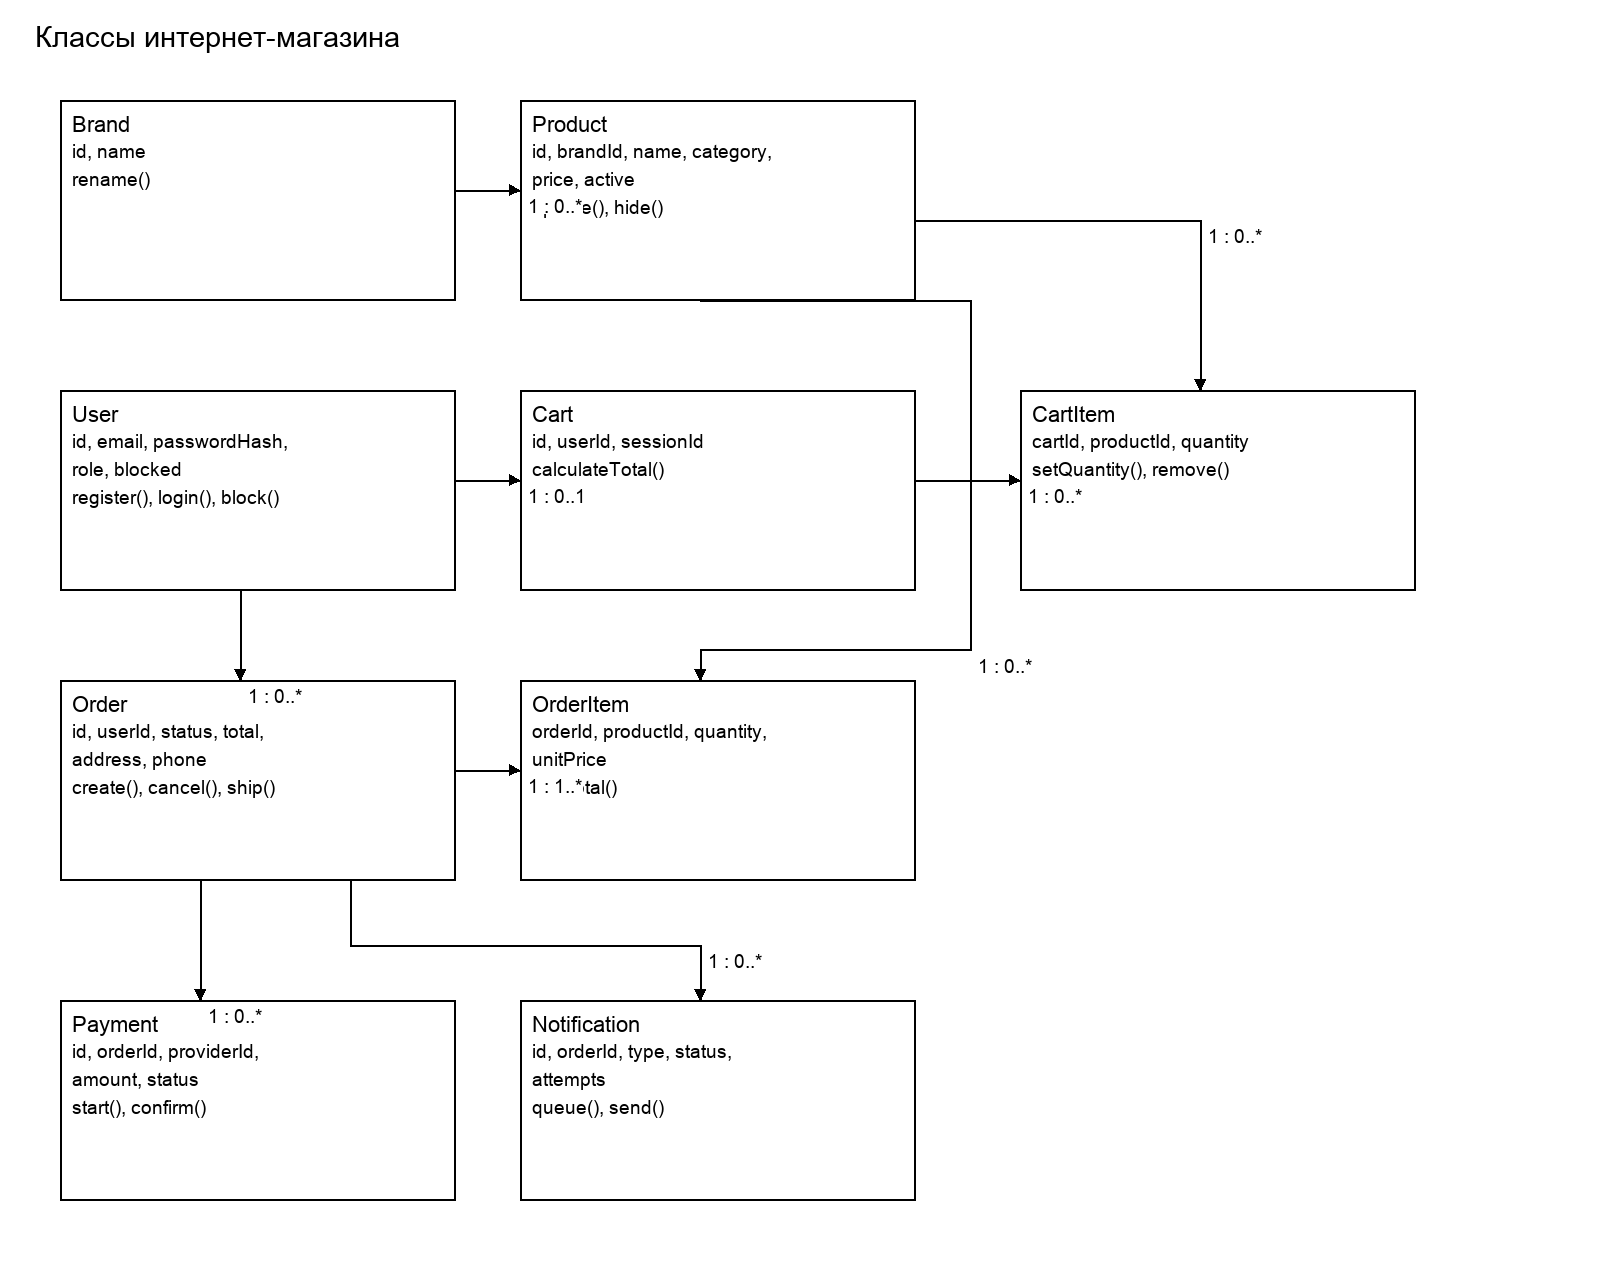
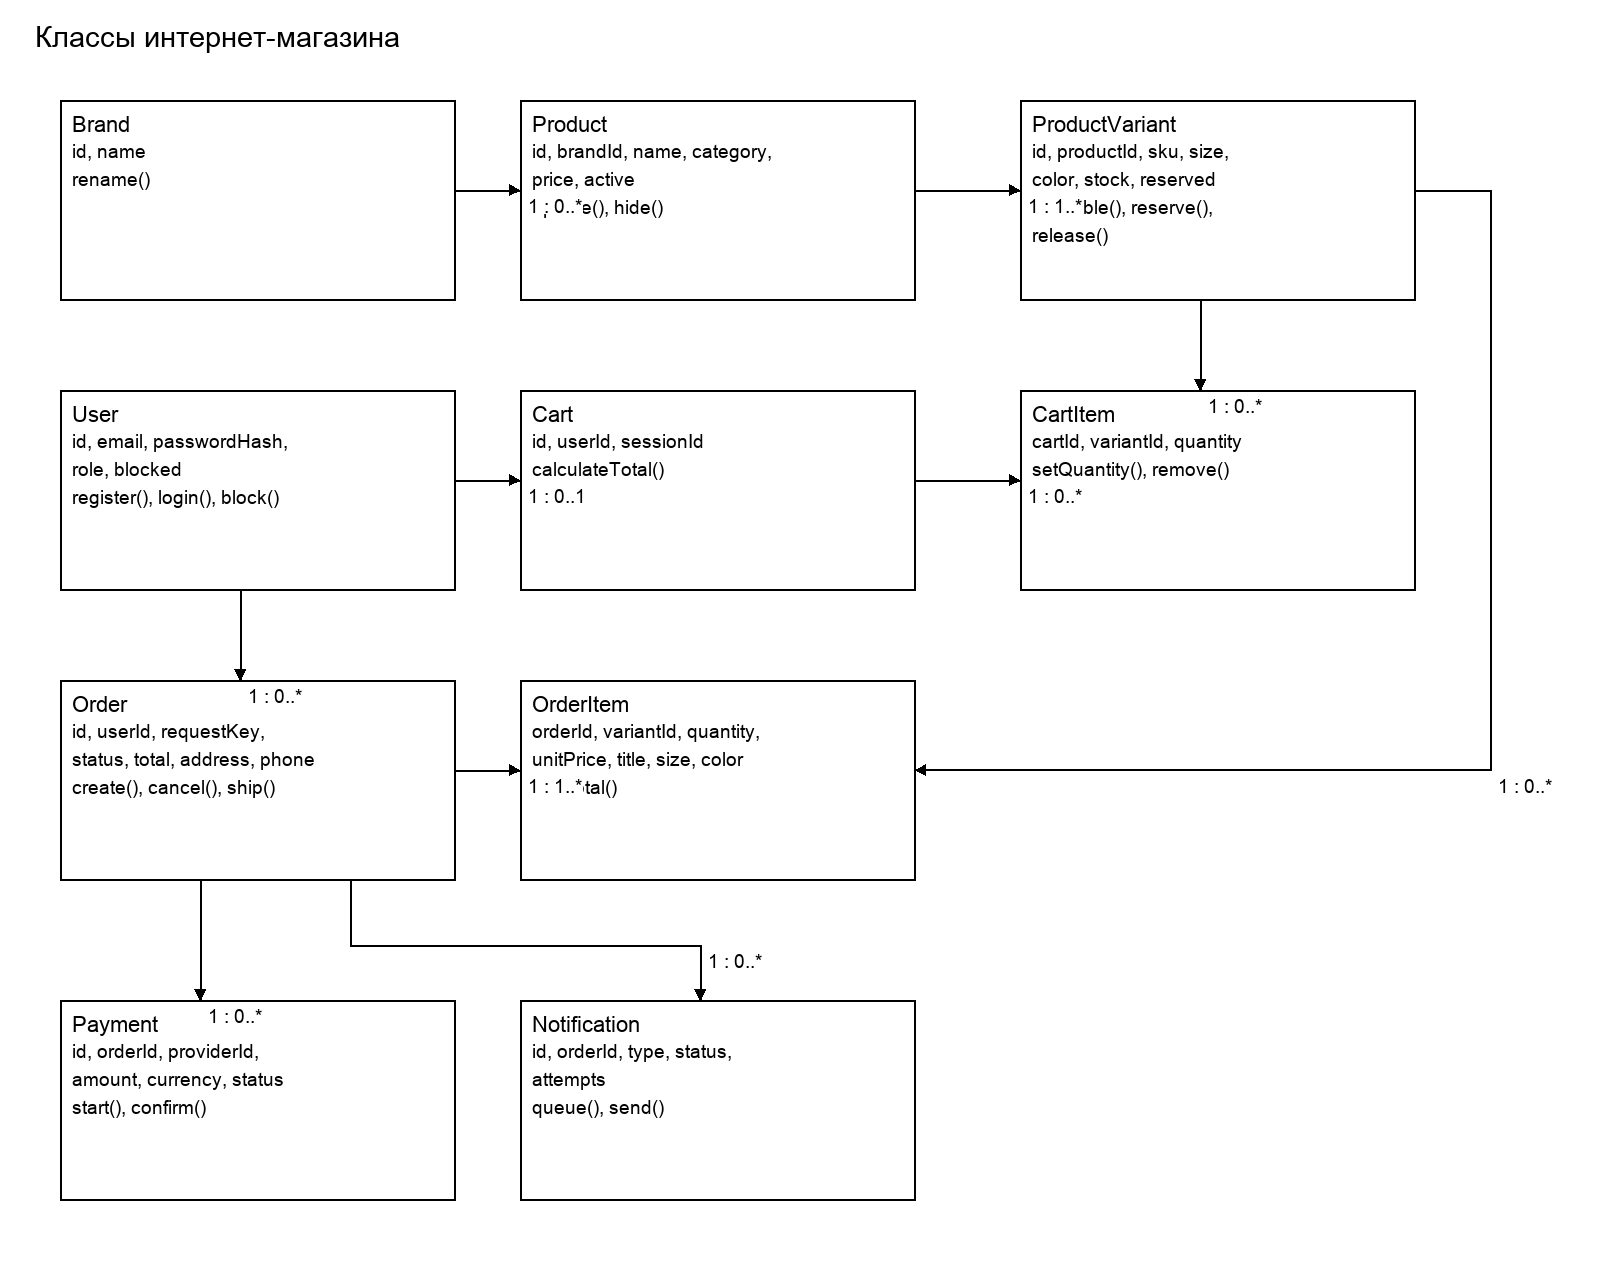
Добавлен вариант товара и связи модуля уведомлений

diff --git a/docs/4-architecture.md b/docs/4-architecture.md
@@ -7,7 +7,7 @@
 | Модуль | Ответственность | Основные классы |
 | --- | --- | --- |
 | М1 Пользователи | Регистрация, вход, роли, блокировка. | User |
-| М2 Каталог и остатки | Бренды, карточки, размеры, цвета и доступные остатки. | Brand, Product |
+| М2 Каталог и остатки | Бренды, карточки, варианты, остатки и журнал их изменения. | Brand, Product, ProductVariant |
 | М3 Корзина | Состав корзины, количество, предварительная сумма. | Cart, CartItem |
 | М4 Заказы | Оформление, резерв, отмена и отправка. | Order, OrderItem |
 | М5 Оплата | Попытки оплаты и подтверждения платёжного сервиса. | Payment |
@@ -24,3 +24,11 @@
 ![Схема модулей](4-architecture.png)
 
 Исходник схемы: `4-architecture.drawio`.
+
+## Уведомления и согласованность
+
+М4 создаёт запись Notification после подтверждения оплаты или отправки. Запись с уникальным сочетанием заказа и типа события сохраняется в той же транзакции, что и изменение заказа. М6 читает очередь и передаёт письма почтовому сервису; ошибки записываются и повторяются не более трёх раз с интервалом 5 минут. После этого запись остаётся в состоянии «Ошибка» для разбора администратором. Сбой почты не меняет состояние заказа.
+
+Обновление остатков и создание заказа выполняются одной транзакцией с блокировкой строк вариантов товара. Доступное количество равно остатку минус резерв. Изменить остаток ниже уже зарезервированного количества нельзя. При отмене резерв освобождается; при отправке остаток и резерв уменьшаются на количество отправленного товара.
+
+Успешный платёж принимается только один раз по уникальному идентификатору операции провайдера. Ключ оформления также уникален для покупателя: повтор запроса после обрыва связи возвращает существующий заказ. Доступ к чужому заказу блокируется на сервере, даже если пользователь вручную подменит его номер.

diff --git a/docs/5-uml-and-tests.md b/docs/5-uml-and-tests.md
@@ -7,16 +7,19 @@
 | User | id, email, passwordHash, role, blocked | register(), login(), block() |
 | Brand | id, name | rename() |
 | Product | id, brandId, name, category, price, active | update(), hide() |
+| ProductVariant | id, productId, sku, size, color, stock, reserved | available(), reserve(), release() |
 | Cart | id, userId, sessionId | calculateTotal() |
-| CartItem | cartId, productId, quantity | setQuantity(), remove() |
-| Order | id, userId, status, total, address, phone | create(), cancel(), ship() |
-| OrderItem | orderId, productId, quantity, unitPrice | lineTotal() |
-| Payment | id, orderId, providerId, amount, status | start(), confirm() |
+| CartItem | cartId, variantId, quantity | setQuantity(), remove() |
+| Order | id, userId, requestKey, status, total, address, phone | create(), cancel(), ship() |
+| OrderItem | orderId, variantId, quantity, unitPrice, title, size, color | lineTotal() |
+| Payment | id, orderId, providerId, amount, currency, status | start(), confirm() |
 | Notification | id, orderId, type, status, attempts | queue(), send() |
 
 ![Диаграмма классов](5-classes.png)
 
-CartItem и OrderItem связаны с Product. Order содержит позиции OrderItem и принадлежит User. Payment и Notification относятся к одному Order.
+Связи: Brand 1 — 0..* Product; Product 1 — 1..* ProductVariant; User 1 — 0..1 Cart; Cart 1 — 0..* CartItem; ProductVariant 1 — 0..* CartItem; User 1 — 0..* Order; Order 1 — 1..* OrderItem; ProductVariant 1 — 0..* OrderItem; Order 1 — 0..* Payment; Order 1 — 0..* Notification.
+
+Для гостевой корзины userId пуст, используется sessionId; при входе корзина связывается с пользователем. В OrderItem фиксируются цена, название и выбранные размер и цвет на момент заказа. В ProductVariant available = stock − reserved. В каталоге показываются только активные карточки; варианты, встречающиеся в заказах, физически не удаляются.
 
 ## Последовательность оформления
 
